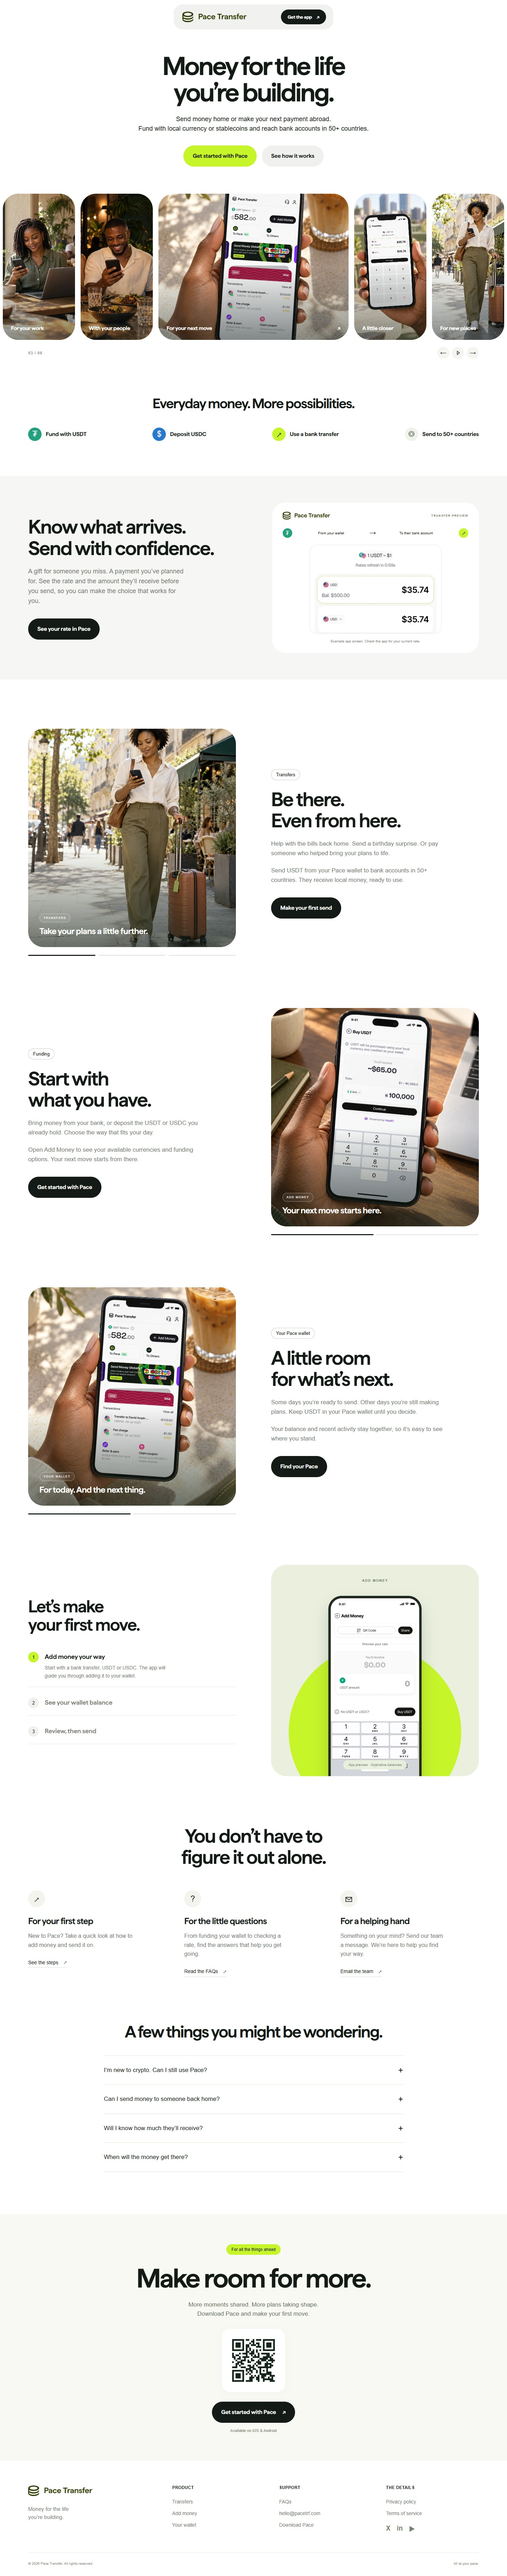
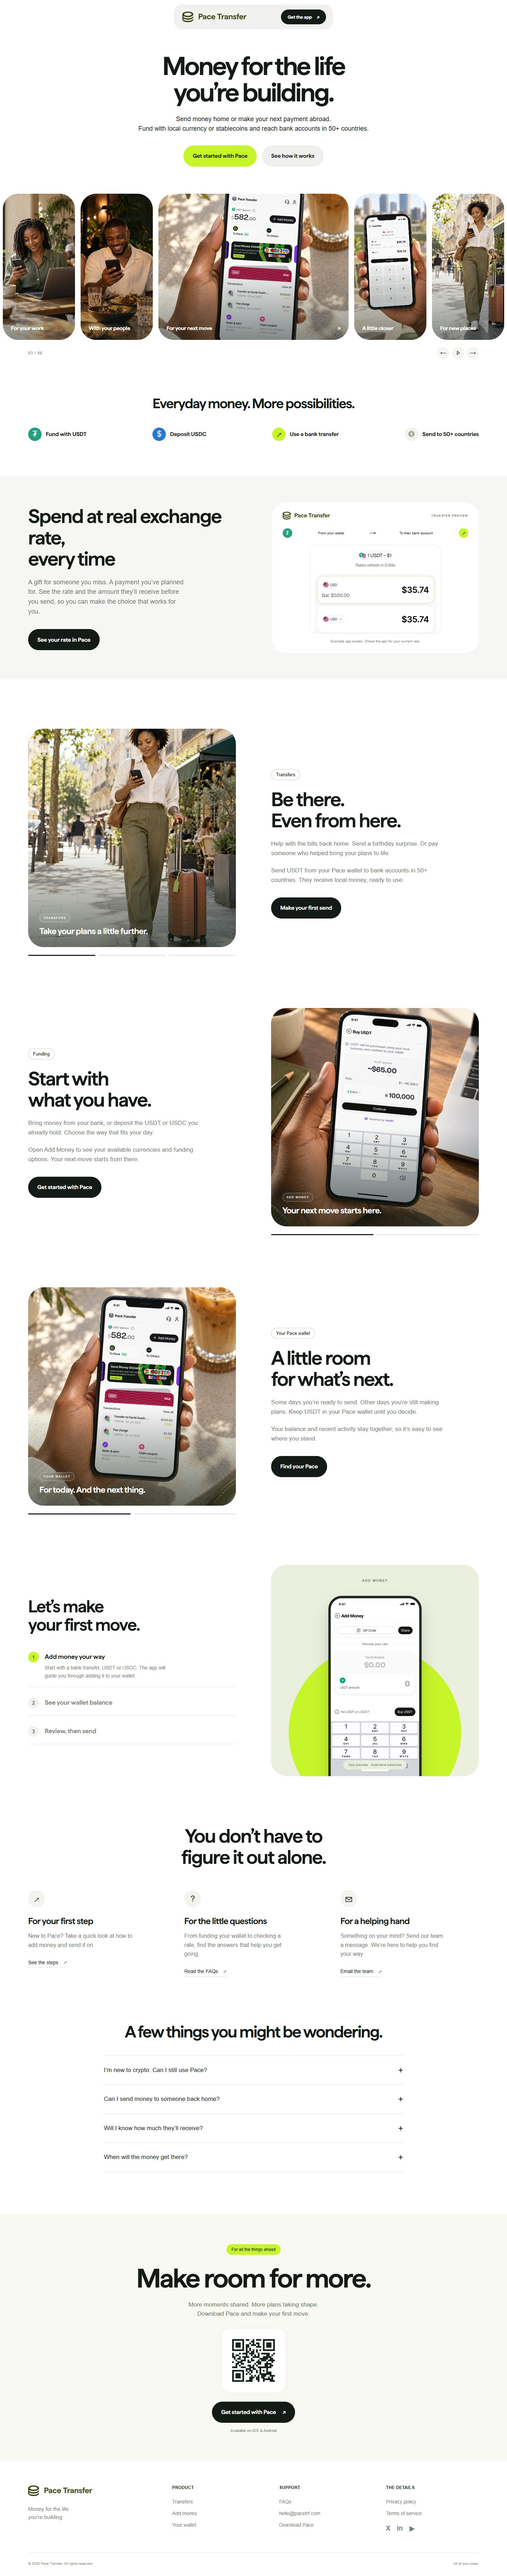
Make exchange rate preview responsive

Changed region(s): [[0.0625, 0.187, 0.4375, 0.2494]]

diff --git a/dist/index.html b/dist/index.html
@@ -11,6 +11,7 @@
   <link rel="icon" href="assets/favicon.ico">
   <link rel="preload" as="font" href="assets/Matter-SemiBold.otf" type="font/otf" crossorigin>
   <link rel="stylesheet" href="morse.css">
+  <link rel="stylesheet" href="rate-responsive.css">
   <script src="morse.js" defer></script>
 </head>
 <body>
@@ -34,7 +35,7 @@
 
   <section class="at-glance content-width" aria-labelledby="glance-title"><h2 id="glance-title">Everyday money. More possibilities.</h2><div class="glance-items"><div><span class="round-mark tether" aria-hidden="true">₮</span><span>Fund with USDT</span></div><div><span class="round-mark usdc" aria-hidden="true">$</span><span>Deposit USDC</span></div><div><span class="round-mark bank" aria-hidden="true">↗</span><span>Use a bank transfer</span></div><div><span class="round-mark globe" aria-hidden="true">◎</span><span>Send to 50+ countries</span></div></div></section>
 
-  <section class="rate-section" id="rates" aria-labelledby="rates-title"><div class="content-width rate-layout"><div class="rate-copy"><h2 id="rates-title">Know what arrives.<br>Send with confidence.</h2><p>A gift for someone you miss. A payment you’ve planned for. See the rate and the amount they’ll receive before you send, so you can make the choice that works for you.</p><a class="pill dark" href="https://onelink.to/vkuuyp" target="_blank" rel="noopener">See your rate in Pace</a></div><div class="rate-product"><div class="rate-topline"><span class="mini-logo"><img src="assets/logo-dark.png" alt="Pace Transfer" width="188" height="33"></span><span class="small-tag">TRANSFER PREVIEW</span></div><div class="rate-path"><span class="round-mark tether" aria-hidden="true">₮</span><span>From your wallet</span><span aria-hidden="true">↓</span><span>To their bank account</span><span class="round-mark bank" aria-hidden="true">↗</span></div><div class="rate-screen"><img src="assets/transfer.webp" alt="Pace app transfer preview showing the amount and currency fields; illustrative values" width="375" height="812" loading="lazy"></div><p class="screen-note">Example app screen. Check the app for your current rate.</p></div></div></section>
+  <section class="rate-section" id="rates" aria-labelledby="rates-title"><div class="content-width rate-layout"><div class="rate-copy"><h2 id="rates-title">Spend at real exchange rate,<br>every time</h2><p>A gift for someone you miss. A payment you’ve planned for. See the rate and the amount they’ll receive before you send, so you can make the choice that works for you.</p><a class="pill dark" href="https://onelink.to/vkuuyp" target="_blank" rel="noopener">See your rate in Pace</a></div><div class="rate-product"><div class="rate-topline"><span class="mini-logo"><img src="assets/logo-dark.png" alt="Pace Transfer" width="188" height="33"></span><span class="small-tag">TRANSFER PREVIEW</span></div><div class="rate-path"><span class="round-mark tether" aria-hidden="true">₮</span><span>From your wallet</span><span aria-hidden="true">↓</span><span>To their bank account</span><span class="round-mark bank" aria-hidden="true">↗</span></div><div class="rate-screen"><img src="assets/transfer.webp" alt="Pace app transfer preview showing the amount and currency fields; illustrative values" width="375" height="812" loading="lazy"></div><p class="screen-note">Example app screen. Check the app for your current rate.</p></div></div></section>
 
   <section class="feature content-width" id="transfers" aria-labelledby="transfers-title">
     <div class="feature-media" data-slider="transfers"><div class="slide-window">

diff --git a/dist/rate-responsive.css b/dist/rate-responsive.css
@@ -1,0 +1,43 @@
+/* Keeps the transfer preview legible as the rate section narrows. */
+.rate-layout,
+.rate-product,
+.rate-topline,
+.rate-screen {
+  min-width: 0;
+}
+
+.rate-product {
+  width: 100%;
+}
+
+.rate-path > span:nth-child(2),
+.rate-path > span:nth-child(4) {
+  min-width: 0;
+  text-align: center;
+  overflow-wrap: anywhere;
+}
+
+.rate-screen img {
+  width: 100%;
+  height: auto;
+}
+
+@media (max-width: 600px) {
+  .rate-path {
+    display: grid;
+    grid-template-columns: clamp(22px, 7vw, 27px) minmax(0, 1fr) 18px minmax(0, 1fr) clamp(22px, 7vw, 27px);
+    column-gap: 4px;
+    align-items: center;
+  }
+
+  .rate-path > span:nth-child(2),
+  .rate-path > span:nth-child(4) {
+    font-size: clamp(7px, 2.2vw, 9px);
+    line-height: 1.15;
+    white-space: normal;
+  }
+
+  .rate-path > span:nth-child(3) {
+    font-size: 18px;
+  }
+}

diff --git a/VERIFICATION.md b/VERIFICATION.md
@@ -12,6 +12,7 @@
 - No browser page errors or HTTP errors during the test.
 - Desktop and mobile screenshots were reviewed. The transfer-preview crop was adjusted to show both amount fields, and the initial wallet gallery image was centered.
 - After the copy refresh, the responsive and interaction checks passed again. Updated screenshots and this archive include the warmer homepage wording.
+- The rate section heading now reads “Spend at real exchange rate, every time.” Its transfer preview uses a responsive route grid and remains contained at 320 px, 390 px, 768 px and desktop widths.
 - Reduced-motion behavior was checked in browser testing. Source inspection confirms gallery focus or manual selection pauses autoplay, with a play control to resume it.
 
 Automated browser checks: `research/qa/check.cjs`; results: `research/qa/results.json`. Chrome ran in an isolated headless test session because the desktop automation helper was unavailable. Full-page screenshots eagerly loaded images for capture; production images retain lazy loading.
